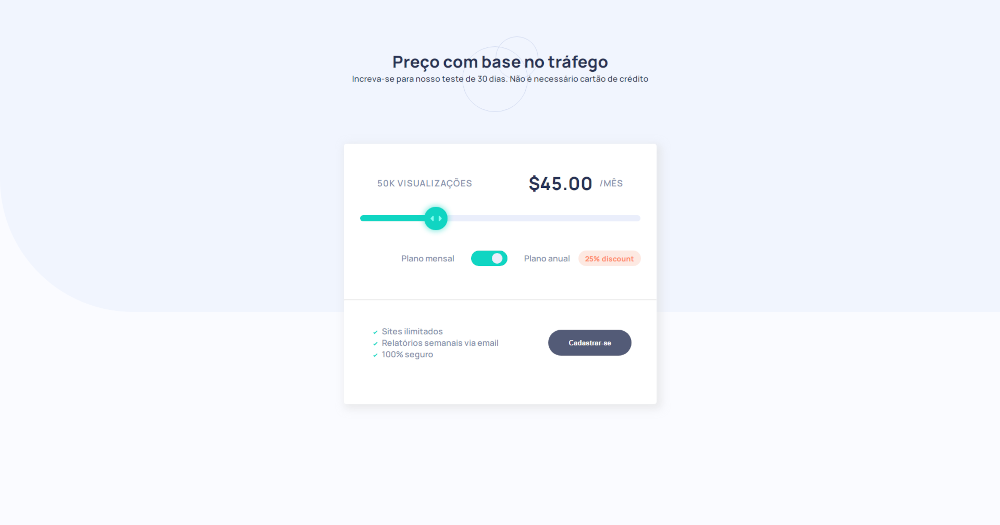
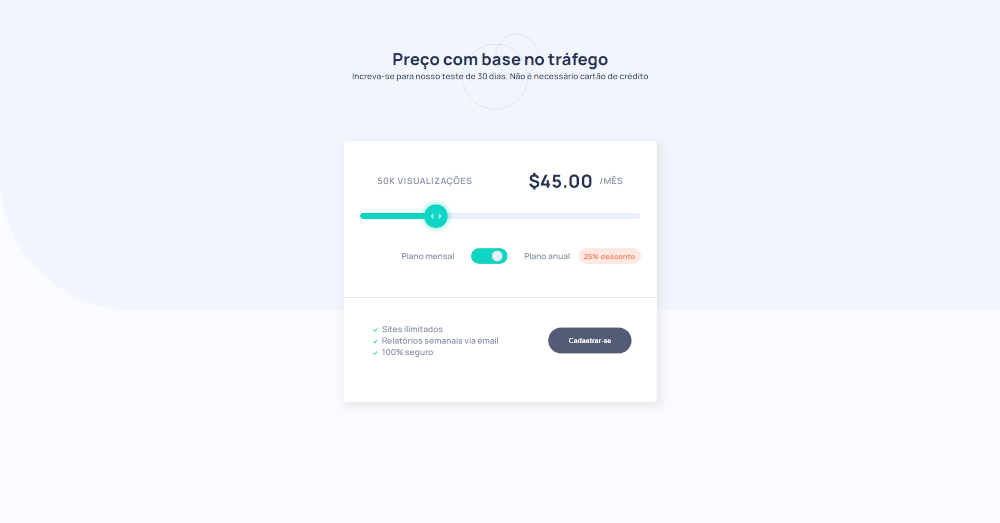
translation of the discount into portuguese

diff --git a/public/index.html b/public/index.html
@@ -37,7 +37,7 @@
                 <div class="choice-plan">
                     <div>Plano mensal</div>
                     <div class="choice-field" onclick="Price.checkDiscount(true)"><button class="btn-choice"> </button></div>
-                    <div class="discount-field">Plano anual <p class="discount">25% discount</p></div>
+                    <div class="discount-field">Plano anual <p class="discount">25% desconto</p></div>
                 </div>
 
                 <hr>
